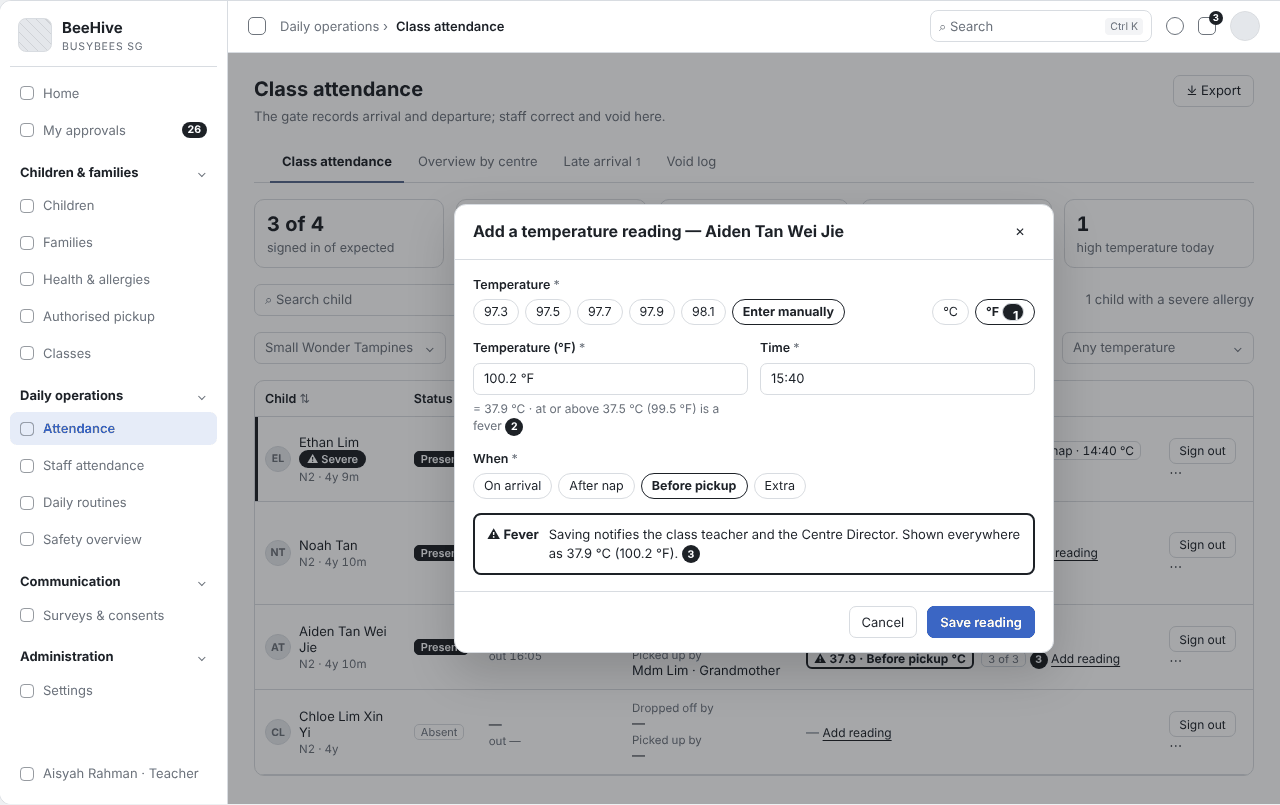
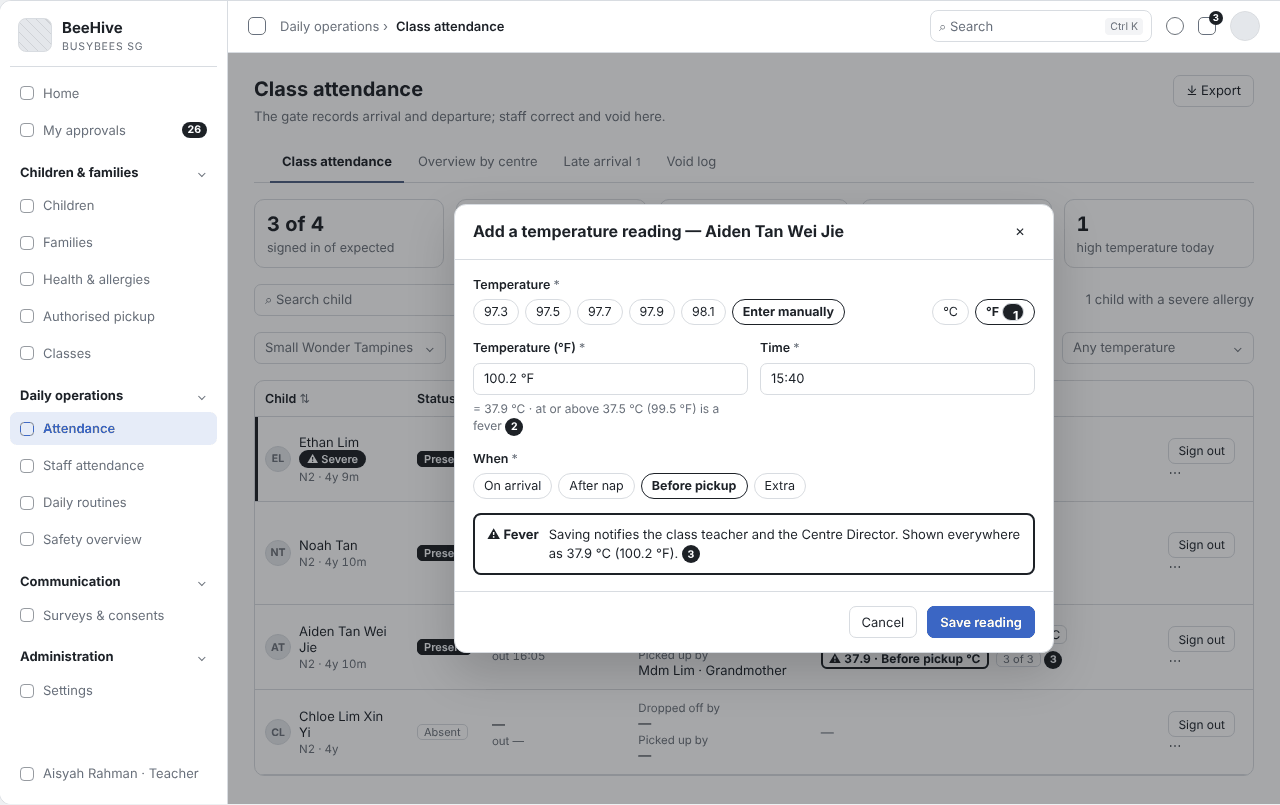
docs(bba): BBA-69, 71, 73, 74 — FR / AC aligned with the user's wireframes (BBA-69 BeeHive columns + Vaccination, one table, simpler kitchen print; BBA-71 read-only Consents on the child record, remind / send again in Surveys & consents; BBA-73 In / Out / Handover_In / Handover_Out; BBA-74 Temperatu
Claude-Session: https://claude.ai/code/session_015ZFaXybDrCpT4avnhGUfKF

diff --git a/projects/bba/Diagram/Wireframe/temperature-readings-sprint4.html b/projects/bba/Diagram/Wireframe/temperature-readings-sprint4.html
@@ -558,7 +558,7 @@ function attendance(o) {
       `<span class="tag${a[4] === "Present" ? " solid" : ""}">${a[4]}</span>`,
       `${a[5]}${a[10] === "late" ? ` <span class="tag dash">Late (staff only)</span>${A(2)}` : ""}<small>out ${a[6]}</small>`,
       `<small style="margin:0">Dropped off by</small>${a[7]}${a[0] === "NT" ? A(1) : ""}<small>Picked up by</small>${a[8]}`,
-      temps + ' <span class="lnk" style="font-size:12px">Add reading</span>',
+      temps,
       '<span class="btn sm">Sign out</span> <span class="act">⋯</span>'], a[3]);
   });
   if (o.bus) return head("Class attendance", "Bus 2 · Tampines North — children on this bus. Each child is signed in on their own, with a photo.", '<span class="btn">⤓ Export</span>')

diff --git a/projects/bba/_review/sprint4-qa/BBA-68-79_wireframes.html b/projects/bba/_review/sprint4-qa/BBA-68-79_wireframes.html
@@ -558,7 +558,7 @@ function attendance(o) {
       `<span class="tag${a[4] === "Present" ? " solid" : ""}">${a[4]}</span>`,
       `${a[5]}${a[10] === "late" ? ` <span class="tag dash">Late (staff only)</span>${A(2)}` : ""}<small>out ${a[6]}</small>`,
       `<small style="margin:0">Dropped off by</small>${a[7]}${a[0] === "NT" ? A(1) : ""}<small>Picked up by</small>${a[8]}`,
-      temps + ' <span class="lnk" style="font-size:12px">Add reading</span>',
+      temps,
       '<span class="btn sm">Sign out</span> <span class="act">⋯</span>'], a[3]);
   });
   if (o.bus) return head("Class attendance", "Bus 2 · Tampines North — children on this bus. Each child is signed in on their own, with a photo.", '<span class="btn">⤓ Export</span>')

diff --git a/projects/bba/_review/sprint4-qa/by-frd/BBA-68/wireframe.html b/projects/bba/_review/sprint4-qa/by-frd/BBA-68/wireframe.html
@@ -558,7 +558,7 @@ function attendance(o) {
       `<span class="tag${a[4] === "Present" ? " solid" : ""}">${a[4]}</span>`,
       `${a[5]}${a[10] === "late" ? ` <span class="tag dash">Late (staff only)</span>${A(2)}` : ""}<small>out ${a[6]}</small>`,
       `<small style="margin:0">Dropped off by</small>${a[7]}${a[0] === "NT" ? A(1) : ""}<small>Picked up by</small>${a[8]}`,
-      temps + ' <span class="lnk" style="font-size:12px">Add reading</span>',
+      temps,
       '<span class="btn sm">Sign out</span> <span class="act">⋯</span>'], a[3]);
   });
   if (o.bus) return head("Class attendance", "Bus 2 · Tampines North — children on this bus. Each child is signed in on their own, with a photo.", '<span class="btn">⤓ Export</span>')

diff --git a/projects/bba/_review/sprint4-qa/by-frd/BBA-69/wireframe.html b/projects/bba/_review/sprint4-qa/by-frd/BBA-69/wireframe.html
@@ -558,7 +558,7 @@ function attendance(o) {
       `<span class="tag${a[4] === "Present" ? " solid" : ""}">${a[4]}</span>`,
       `${a[5]}${a[10] === "late" ? ` <span class="tag dash">Late (staff only)</span>${A(2)}` : ""}<small>out ${a[6]}</small>`,
       `<small style="margin:0">Dropped off by</small>${a[7]}${a[0] === "NT" ? A(1) : ""}<small>Picked up by</small>${a[8]}`,
-      temps + ' <span class="lnk" style="font-size:12px">Add reading</span>',
+      temps,
       '<span class="btn sm">Sign out</span> <span class="act">⋯</span>'], a[3]);
   });
   if (o.bus) return head("Class attendance", "Bus 2 · Tampines North — children on this bus. Each child is signed in on their own, with a photo.", '<span class="btn">⤓ Export</span>')

diff --git a/projects/bba/_review/sprint4-qa/by-frd/BBA-70/wireframe.html b/projects/bba/_review/sprint4-qa/by-frd/BBA-70/wireframe.html
@@ -558,7 +558,7 @@ function attendance(o) {
       `<span class="tag${a[4] === "Present" ? " solid" : ""}">${a[4]}</span>`,
       `${a[5]}${a[10] === "late" ? ` <span class="tag dash">Late (staff only)</span>${A(2)}` : ""}<small>out ${a[6]}</small>`,
       `<small style="margin:0">Dropped off by</small>${a[7]}${a[0] === "NT" ? A(1) : ""}<small>Picked up by</small>${a[8]}`,
-      temps + ' <span class="lnk" style="font-size:12px">Add reading</span>',
+      temps,
       '<span class="btn sm">Sign out</span> <span class="act">⋯</span>'], a[3]);
   });
   if (o.bus) return head("Class attendance", "Bus 2 · Tampines North — children on this bus. Each child is signed in on their own, with a photo.", '<span class="btn">⤓ Export</span>')

diff --git a/projects/bba/_review/sprint4-qa/by-frd/BBA-71/wireframe.html b/projects/bba/_review/sprint4-qa/by-frd/BBA-71/wireframe.html
@@ -558,7 +558,7 @@ function attendance(o) {
       `<span class="tag${a[4] === "Present" ? " solid" : ""}">${a[4]}</span>`,
       `${a[5]}${a[10] === "late" ? ` <span class="tag dash">Late (staff only)</span>${A(2)}` : ""}<small>out ${a[6]}</small>`,
       `<small style="margin:0">Dropped off by</small>${a[7]}${a[0] === "NT" ? A(1) : ""}<small>Picked up by</small>${a[8]}`,
-      temps + ' <span class="lnk" style="font-size:12px">Add reading</span>',
+      temps,
       '<span class="btn sm">Sign out</span> <span class="act">⋯</span>'], a[3]);
   });
   if (o.bus) return head("Class attendance", "Bus 2 · Tampines North — children on this bus. Each child is signed in on their own, with a photo.", '<span class="btn">⤓ Export</span>')

diff --git a/projects/bba/_review/sprint4-qa/by-frd/BBA-72/wireframe.html b/projects/bba/_review/sprint4-qa/by-frd/BBA-72/wireframe.html
@@ -558,7 +558,7 @@ function attendance(o) {
       `<span class="tag${a[4] === "Present" ? " solid" : ""}">${a[4]}</span>`,
       `${a[5]}${a[10] === "late" ? ` <span class="tag dash">Late (staff only)</span>${A(2)}` : ""}<small>out ${a[6]}</small>`,
       `<small style="margin:0">Dropped off by</small>${a[7]}${a[0] === "NT" ? A(1) : ""}<small>Picked up by</small>${a[8]}`,
-      temps + ' <span class="lnk" style="font-size:12px">Add reading</span>',
+      temps,
       '<span class="btn sm">Sign out</span> <span class="act">⋯</span>'], a[3]);
   });
   if (o.bus) return head("Class attendance", "Bus 2 · Tampines North — children on this bus. Each child is signed in on their own, with a photo.", '<span class="btn">⤓ Export</span>')

diff --git a/projects/bba/_review/sprint4-qa/by-frd/BBA-73/wireframe.html b/projects/bba/_review/sprint4-qa/by-frd/BBA-73/wireframe.html
@@ -558,7 +558,7 @@ function attendance(o) {
       `<span class="tag${a[4] === "Present" ? " solid" : ""}">${a[4]}</span>`,
       `${a[5]}${a[10] === "late" ? ` <span class="tag dash">Late (staff only)</span>${A(2)}` : ""}<small>out ${a[6]}</small>`,
       `<small style="margin:0">Dropped off by</small>${a[7]}${a[0] === "NT" ? A(1) : ""}<small>Picked up by</small>${a[8]}`,
-      temps + ' <span class="lnk" style="font-size:12px">Add reading</span>',
+      temps,
       '<span class="btn sm">Sign out</span> <span class="act">⋯</span>'], a[3]);
   });
   if (o.bus) return head("Class attendance", "Bus 2 · Tampines North — children on this bus. Each child is signed in on their own, with a photo.", '<span class="btn">⤓ Export</span>')

diff --git a/projects/bba/_review/sprint4-qa/by-frd/BBA-74/wireframe.html b/projects/bba/_review/sprint4-qa/by-frd/BBA-74/wireframe.html
@@ -558,7 +558,7 @@ function attendance(o) {
       `<span class="tag${a[4] === "Present" ? " solid" : ""}">${a[4]}</span>`,
       `${a[5]}${a[10] === "late" ? ` <span class="tag dash">Late (staff only)</span>${A(2)}` : ""}<small>out ${a[6]}</small>`,
       `<small style="margin:0">Dropped off by</small>${a[7]}${a[0] === "NT" ? A(1) : ""}<small>Picked up by</small>${a[8]}`,
-      temps + ' <span class="lnk" style="font-size:12px">Add reading</span>',
+      temps,
       '<span class="btn sm">Sign out</span> <span class="act">⋯</span>'], a[3]);
   });
   if (o.bus) return head("Class attendance", "Bus 2 · Tampines North — children on this bus. Each child is signed in on their own, with a photo.", '<span class="btn">⤓ Export</span>')

diff --git a/projects/bba/_review/sprint4-qa/by-frd/BBA-75/wireframe.html b/projects/bba/_review/sprint4-qa/by-frd/BBA-75/wireframe.html
@@ -558,7 +558,7 @@ function attendance(o) {
       `<span class="tag${a[4] === "Present" ? " solid" : ""}">${a[4]}</span>`,
       `${a[5]}${a[10] === "late" ? ` <span class="tag dash">Late (staff only)</span>${A(2)}` : ""}<small>out ${a[6]}</small>`,
       `<small style="margin:0">Dropped off by</small>${a[7]}${a[0] === "NT" ? A(1) : ""}<small>Picked up by</small>${a[8]}`,
-      temps + ' <span class="lnk" style="font-size:12px">Add reading</span>',
+      temps,
       '<span class="btn sm">Sign out</span> <span class="act">⋯</span>'], a[3]);
   });
   if (o.bus) return head("Class attendance", "Bus 2 · Tampines North — children on this bus. Each child is signed in on their own, with a photo.", '<span class="btn">⤓ Export</span>')

diff --git a/projects/bba/_review/sprint4-qa/by-frd/BBA-76/wireframe.html b/projects/bba/_review/sprint4-qa/by-frd/BBA-76/wireframe.html
@@ -558,7 +558,7 @@ function attendance(o) {
       `<span class="tag${a[4] === "Present" ? " solid" : ""}">${a[4]}</span>`,
       `${a[5]}${a[10] === "late" ? ` <span class="tag dash">Late (staff only)</span>${A(2)}` : ""}<small>out ${a[6]}</small>`,
       `<small style="margin:0">Dropped off by</small>${a[7]}${a[0] === "NT" ? A(1) : ""}<small>Picked up by</small>${a[8]}`,
-      temps + ' <span class="lnk" style="font-size:12px">Add reading</span>',
+      temps,
       '<span class="btn sm">Sign out</span> <span class="act">⋯</span>'], a[3]);
   });
   if (o.bus) return head("Class attendance", "Bus 2 · Tampines North — children on this bus. Each child is signed in on their own, with a photo.", '<span class="btn">⤓ Export</span>')

diff --git a/projects/bba/_review/sprint4-qa/by-frd/BBA-77/wireframe.html b/projects/bba/_review/sprint4-qa/by-frd/BBA-77/wireframe.html
@@ -558,7 +558,7 @@ function attendance(o) {
       `<span class="tag${a[4] === "Present" ? " solid" : ""}">${a[4]}</span>`,
       `${a[5]}${a[10] === "late" ? ` <span class="tag dash">Late (staff only)</span>${A(2)}` : ""}<small>out ${a[6]}</small>`,
       `<small style="margin:0">Dropped off by</small>${a[7]}${a[0] === "NT" ? A(1) : ""}<small>Picked up by</small>${a[8]}`,
-      temps + ' <span class="lnk" style="font-size:12px">Add reading</span>',
+      temps,
       '<span class="btn sm">Sign out</span> <span class="act">⋯</span>'], a[3]);
   });
   if (o.bus) return head("Class attendance", "Bus 2 · Tampines North — children on this bus. Each child is signed in on their own, with a photo.", '<span class="btn">⤓ Export</span>')
